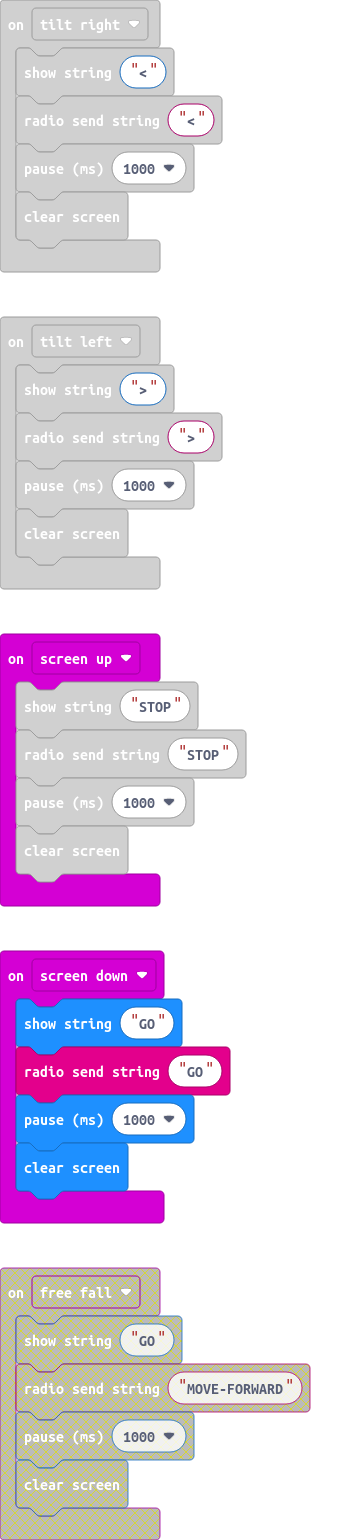
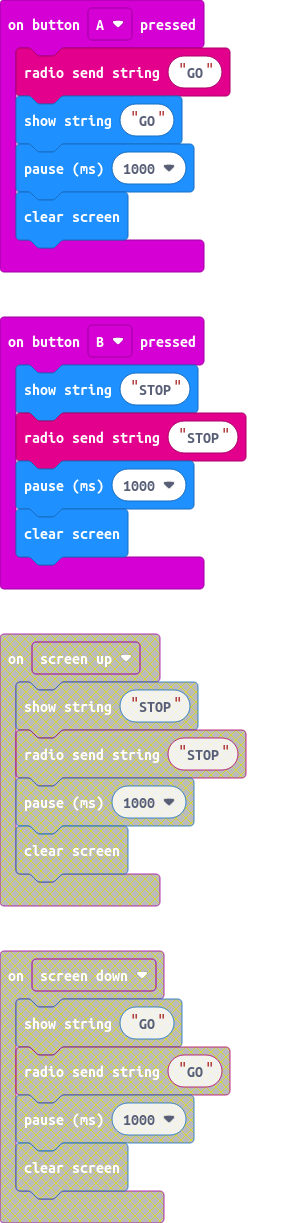
Updated to include buttons A and B

diff --git a/main.ts b/main.ts
@@ -1,18 +1,18 @@
+input.onButtonPressed(Button.A, function () {
+    radio.sendString("GO")
+    basic.showString("GO")
+    basic.pause(1000)
+    basic.clearScreen()
+})
 input.onGesture(Gesture.TiltLeft, function () {
     basic.showString(">")
     radio.sendString(">")
     basic.pause(1000)
     basic.clearScreen()
 })
-input.onGesture(Gesture.ScreenUp, function () {
+input.onButtonPressed(Button.B, function () {
     basic.showString("STOP")
     radio.sendString("STOP")
-    basic.pause(1000)
-    basic.clearScreen()
-})
-input.onGesture(Gesture.ScreenDown, function () {
-    basic.showString("GO")
-    radio.sendString("GO")
     basic.pause(1000)
     basic.clearScreen()
 })
